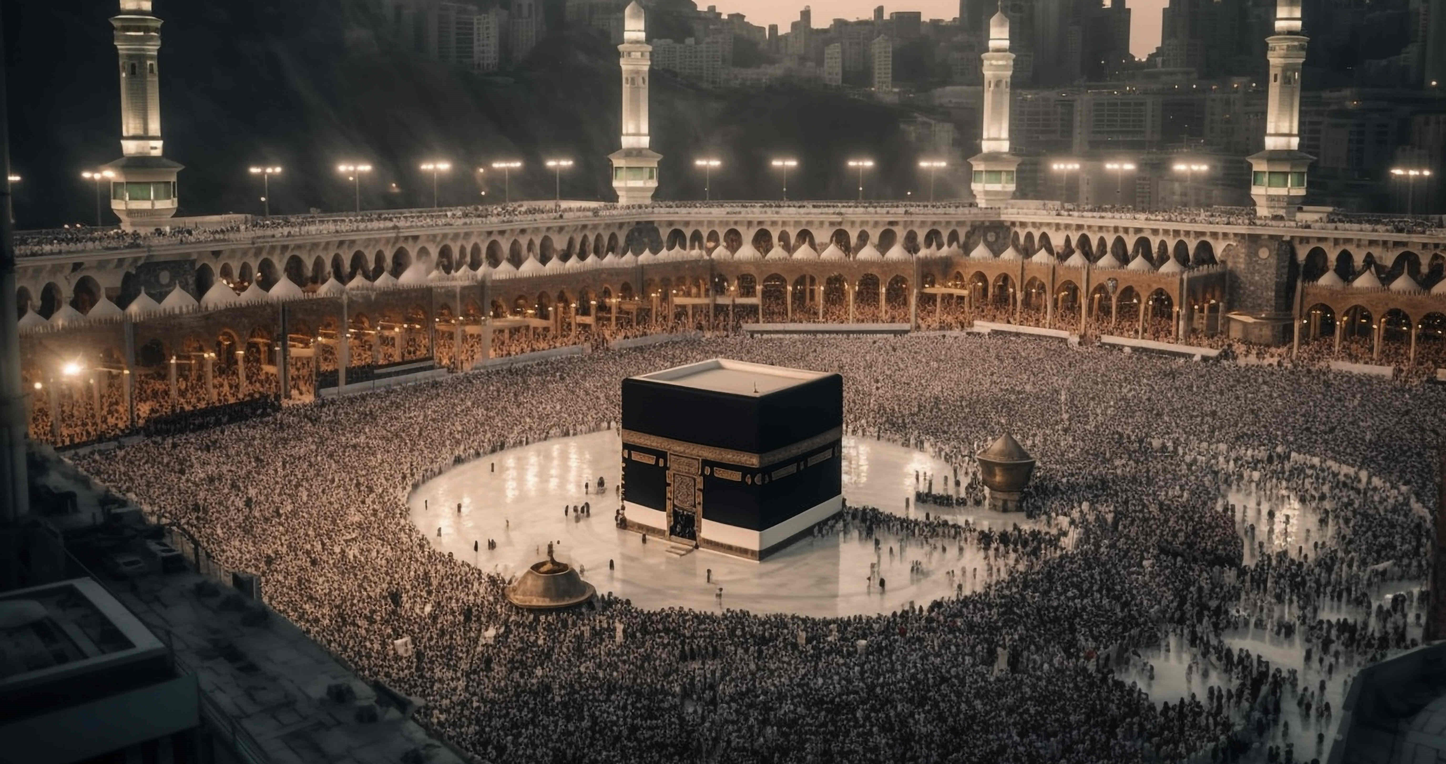
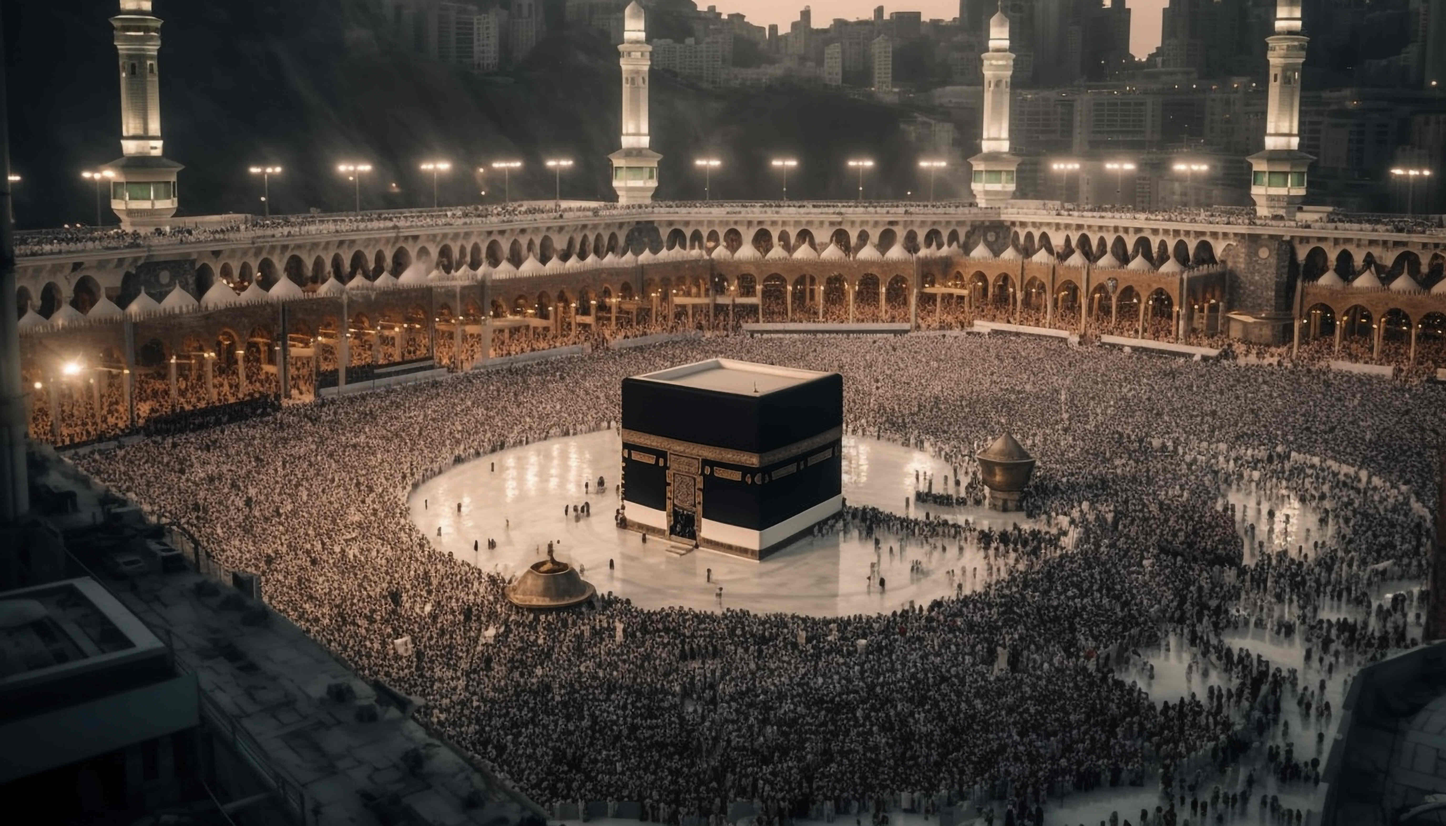
resize images

diff --git a/index.html b/index.html
@@ -59,7 +59,7 @@
     <div class="nautical-3"></div>
     <div class="col-lg-12 centered header-wrapper">
       <h2>About <span class="italic">Us</span> </h2>
-      <p class="large" style="padding: 20px; ">At Smart Travels, we turn your travel dreams into reality. As a trusted travel partner, we specialize in seamless journeys—from flights and visas to tours and spiritual trips. With a passion for excellence and customer-first service, we ensure every adventure is smooth, memorable, and tailored just for you.</p>
+      <p class="large" style="padding: 20px; ">At Rukn  Travels, we turn your travel dreams into reality. As a trusted travel partner, we specialize in seamless journeys—from flights and visas to tours and spiritual trips. With a passion for excellence and customer-first service, we ensure every adventure is smooth, memorable, and tailored just for you.</p>
     </div>
   </div>
  <div class="container clearfix">
